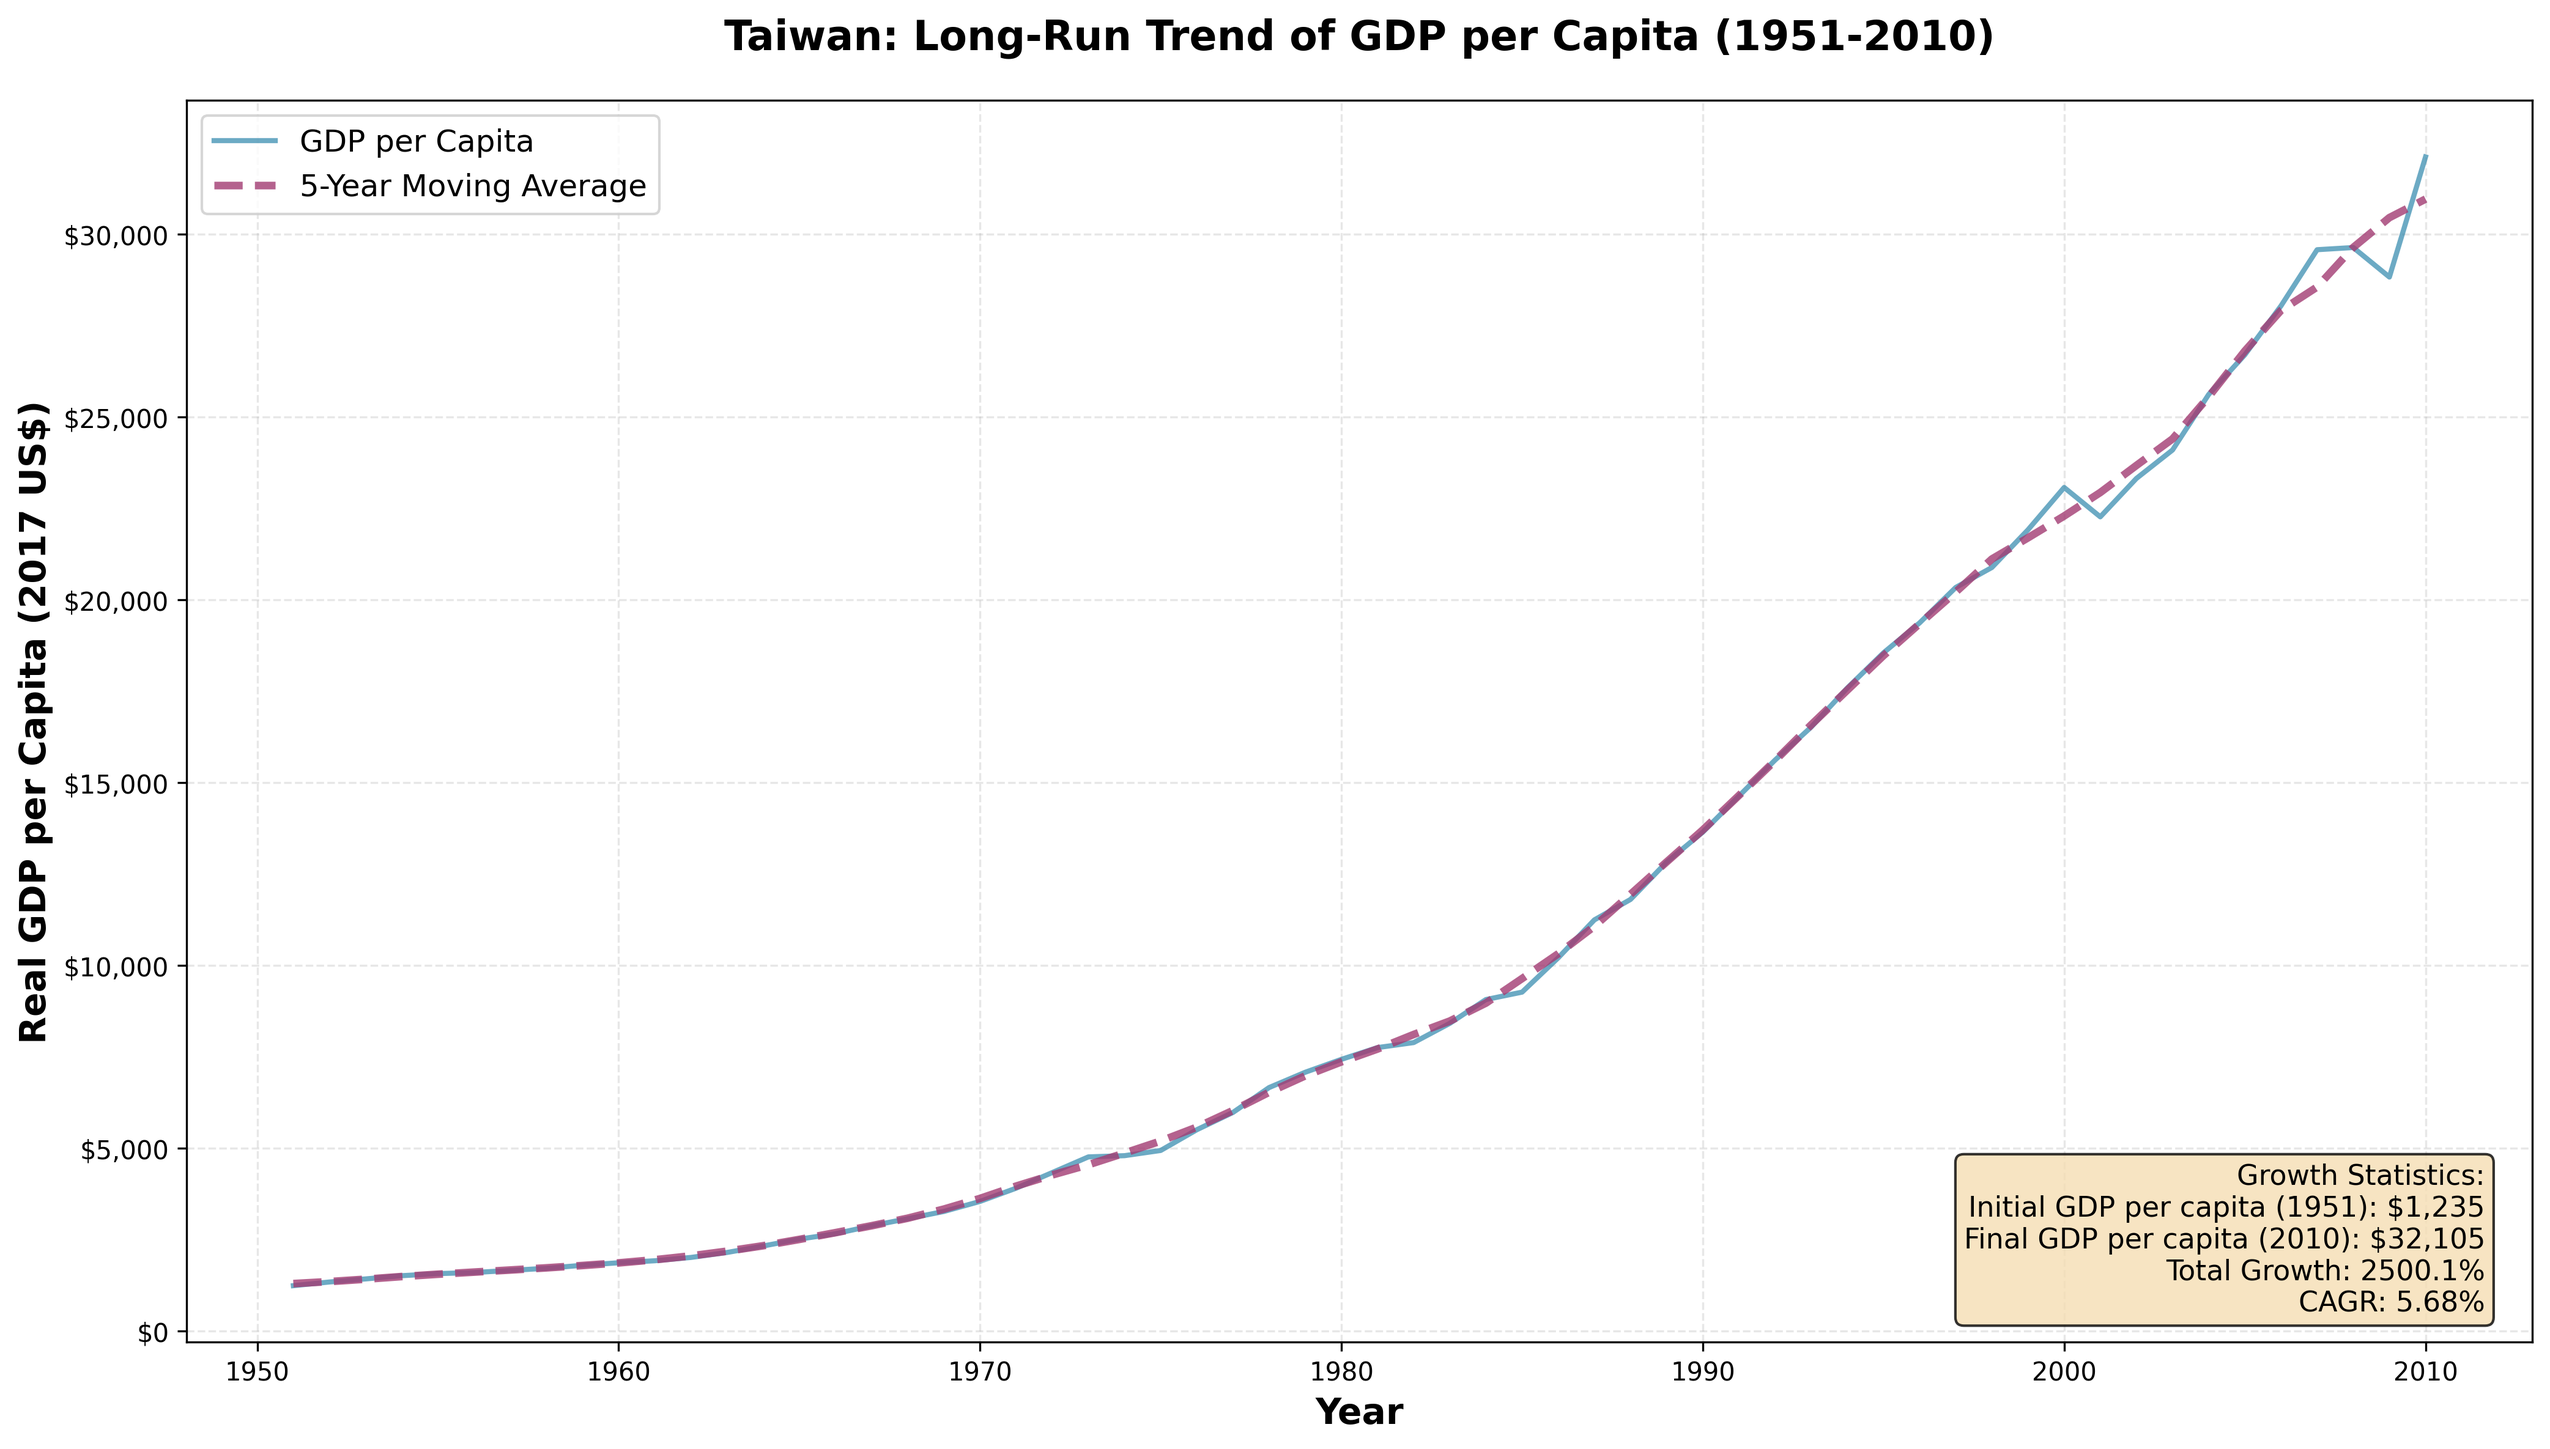
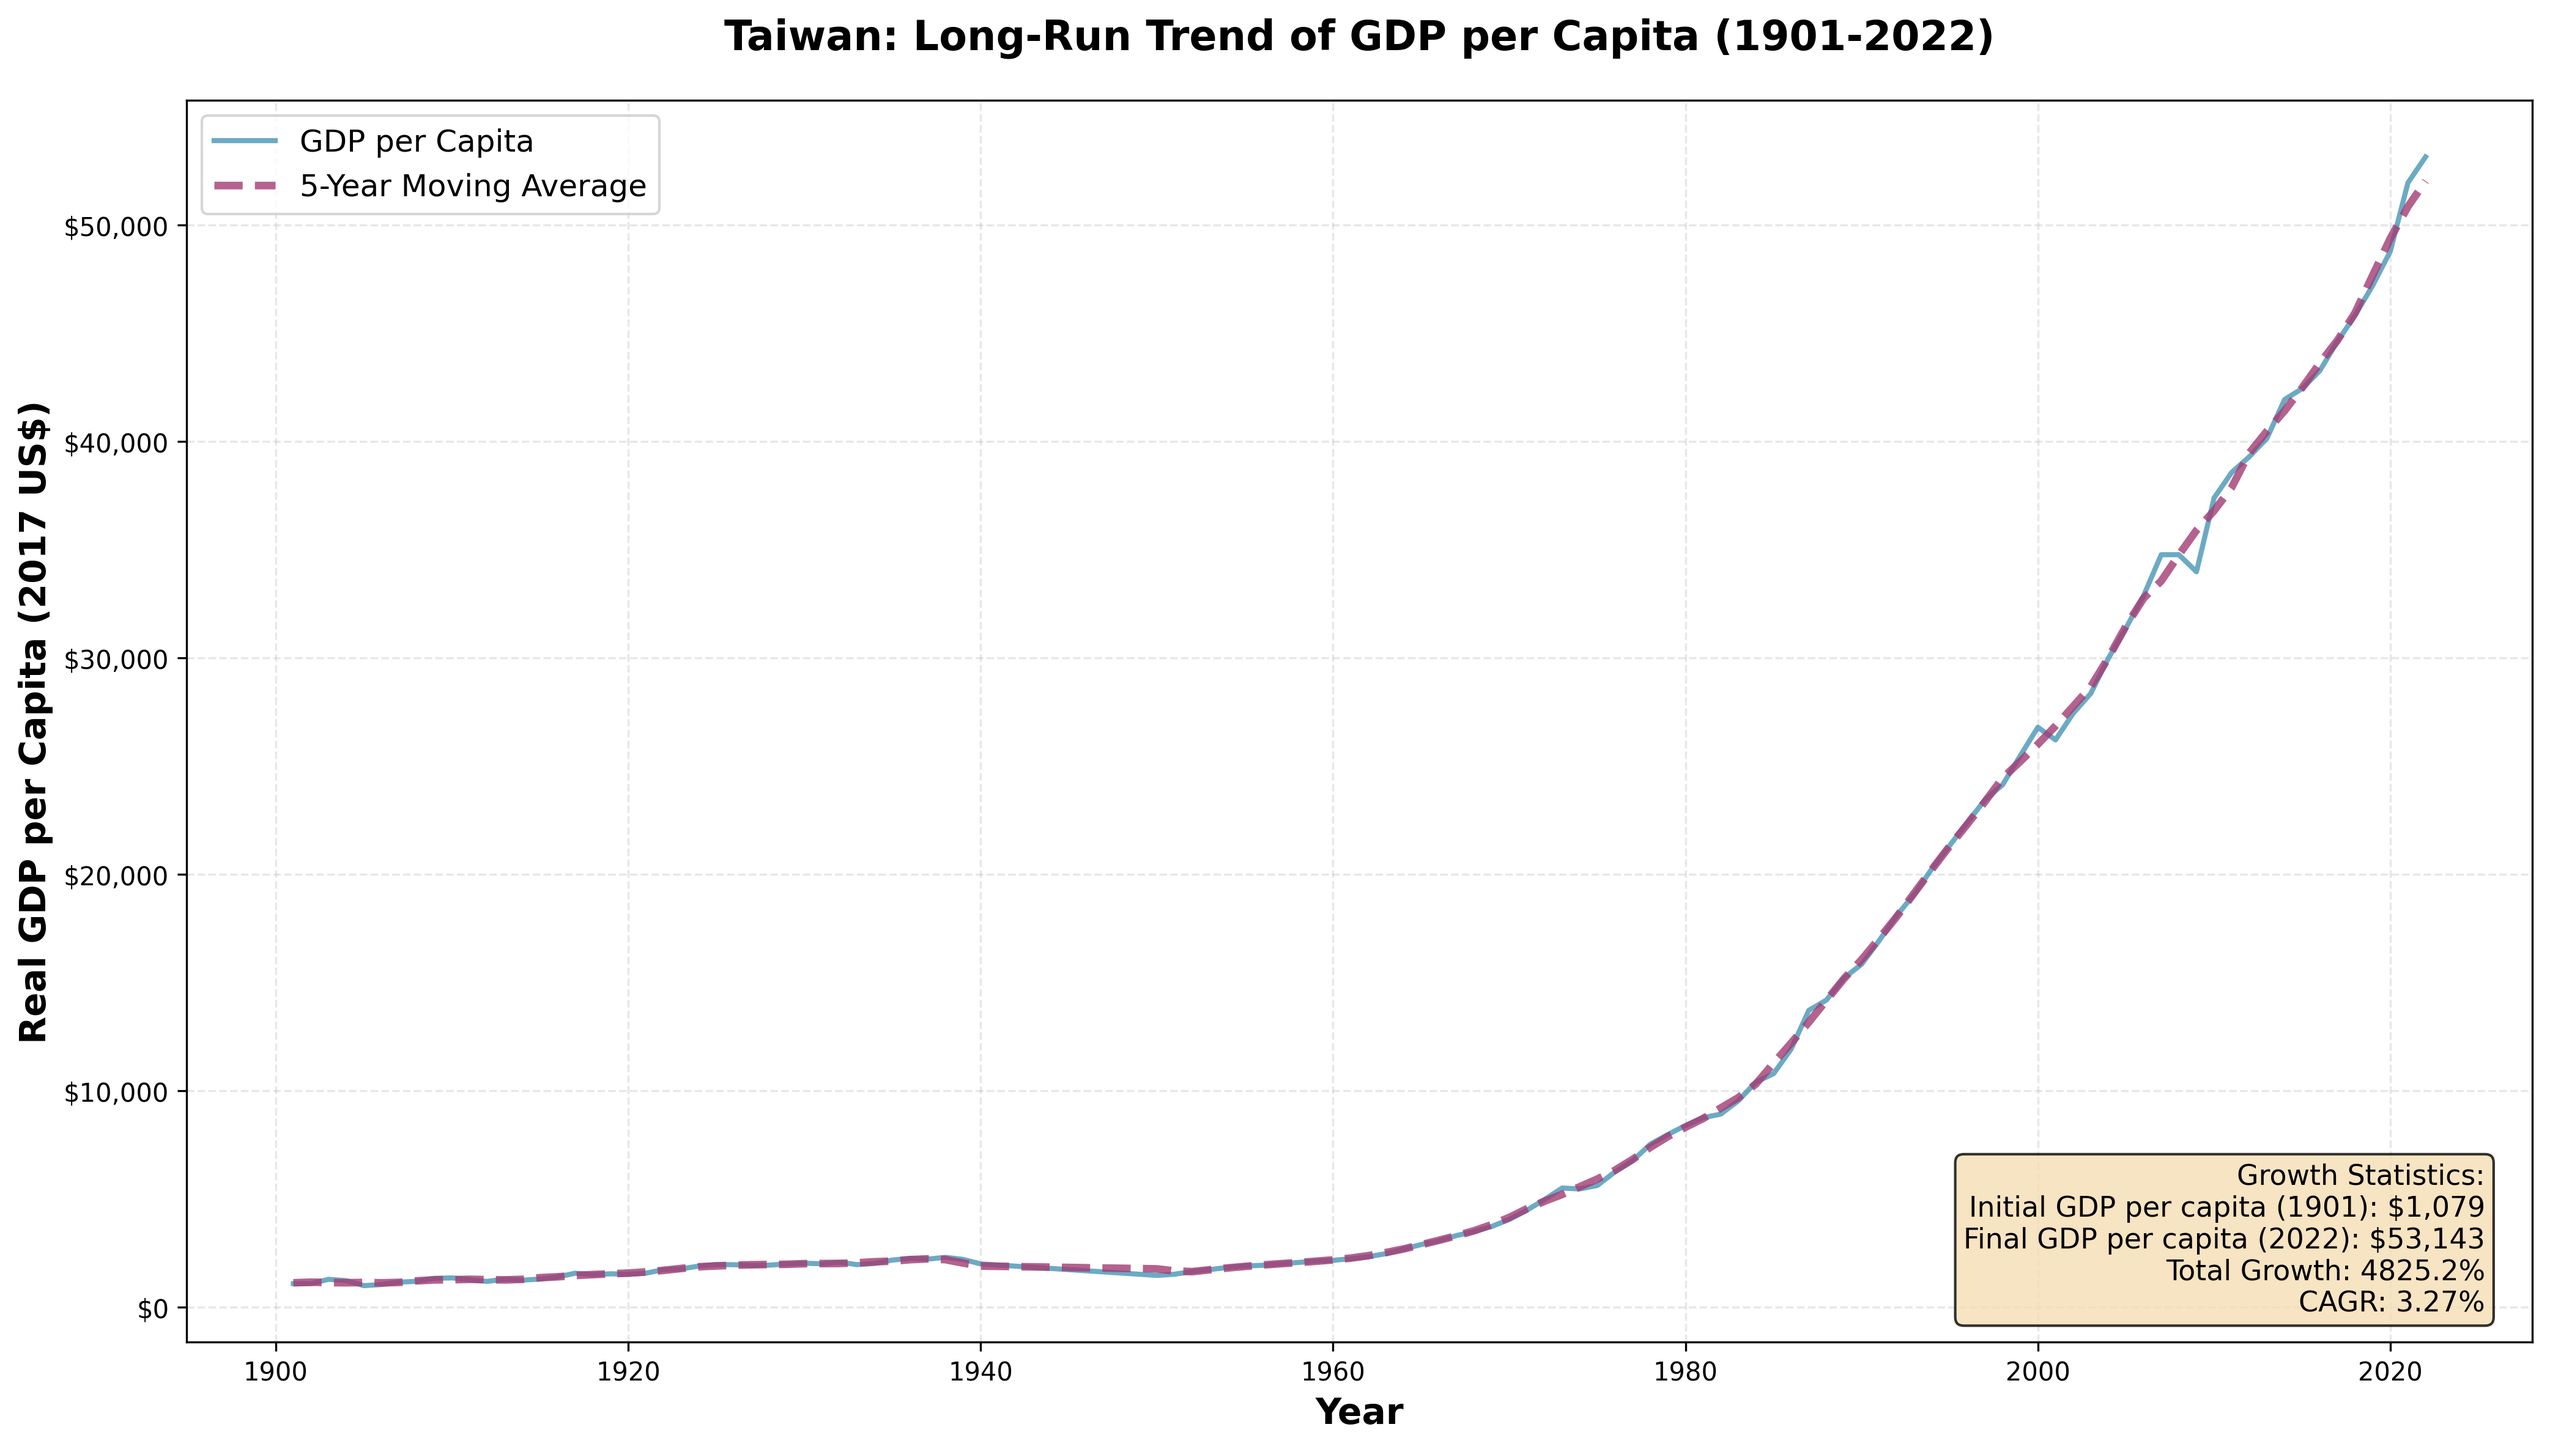
Changed Data Set

diff --git a/Question 1.py b/Question 1.py
@@ -2,109 +2,77 @@ import pandas as pd
 import matplotlib.pyplot as plt
 import numpy as np
 from scipy.ndimage import uniform_filter1d
-
-# Read the CSV file
-df = pd.read_csv('Taiwan GDP per capita.csv')
-
-# Convert observation_date to datetime
-df['observation_date'] = pd.to_datetime(df['observation_date'])
-
-# Extract year for x-axis
-df['year'] = df['observation_date'].dt.year
-
-# Create figure and axis
-fig, ax = plt.subplots(figsize=(14, 8))
-
-# Plot the actual GDP per capita
-ax.plot(df['year'], df['RGDPCHTWA625NUPN'],
-        linewidth=2, color='#2E86AB', alpha=0.7, label='GDP per Capita')
-
-# Add a moving average trend line to show long-term trend (5-year moving average)
-window_size = 5
-moving_avg = uniform_filter1d(df['RGDPCHTWA625NUPN'], size=window_size, mode='nearest')
-ax.plot(df['year'], moving_avg,
-        linewidth=3, color='#A23B72', linestyle='--',
-        label=f'{window_size}-Year Moving Average', alpha=0.8)
-
-# Formatting
-ax.set_xlabel('Year', fontsize=14, fontweight='bold')
-ax.set_ylabel('Real GDP per Capita (2017 US$)', fontsize=14, fontweight='bold')
-ax.set_title('Taiwan: Long-Run Trend of GDP per Capita (1951-2010)',
-             fontsize=16, fontweight='bold', pad=20)
-
-# Add grid for better readability
-ax.grid(True, alpha=0.3, linestyle='--')
-
-# Format y-axis to show values in thousands with comma separator
-ax.yaxis.set_major_formatter(plt.FuncFormatter(lambda x, p: f'${x:,.0f}'))
-
-# Add legend
-ax.legend(fontsize=12, loc='upper left')
-
-# Add some key statistics as text
-initial_gdp = df['RGDPCHTWA625NUPN'].iloc[0]
-final_gdp = df['RGDPCHTWA625NUPN'].iloc[-1]
-total_growth = ((final_gdp - initial_gdp) / initial_gdp) * 100
-years = df['year'].iloc[-1] - df['year'].iloc[0]
-cagr = ((final_gdp / initial_gdp) ** (1/years) - 1) * 100
-
-# Add text box with key statistics (positioned in bottom right)
-textstr = f'Growth Statistics:\n'
-textstr += f'Initial GDP per capita ({df["year"].iloc[0]}): ${initial_gdp:,.0f}\n'
-textstr += f'Final GDP per capita ({df["year"].iloc[-1]}): ${final_gdp:,.0f}\n'
-textstr += f'Total Growth: {total_growth:.1f}%\n'
-textstr += f'CAGR: {cagr:.2f}%'
-
-props = dict(boxstyle='round', facecolor='wheat', alpha=0.8)
-ax.text(0.98, 0.02, textstr, transform=ax.transAxes, fontsize=11,
-        verticalalignment='bottom', horizontalalignment='right', bbox=props)
-
-# Tight layout
-plt.tight_layout()
-
-# Save the figure
-plt.savefig('Taiwan_GDP_per_capita_trend.png', dpi=300, bbox_inches='tight')
-
-# Show the plot
-plt.show()
-
-# --- Log-scale version ---
-fig2, ax2 = plt.subplots(figsize=(14, 8))
-
-ax2.plot(df['year'], df['RGDPCHTWA625NUPN'],
-         linewidth=2, color='#2E86AB', alpha=0.7, label='GDP per Capita')
-ax2.plot(df['year'], moving_avg,
-         linewidth=3, color='#A23B72', linestyle='--',
-         label=f'{window_size}-Year Moving Average', alpha=0.8)
-
-ax2.set_yscale('log')
-
-# Set explicit y-axis ticks for readability
 from matplotlib.ticker import FixedLocator
-tick_values = [1000, 2000, 5000, 10000, 20000, 50000]
-ax2.yaxis.set_major_locator(FixedLocator(tick_values))
-ax2.yaxis.set_minor_locator(FixedLocator([]))
-ax2.set_ylim(800, 50000)
 
-ax2.set_xlabel('Year', fontsize=14, fontweight='bold')
-ax2.set_ylabel('Real GDP per Capita (2017 US$, log scale)', fontsize=14, fontweight='bold')
-ax2.set_title('Taiwan: Long-Run Trend of GDP per Capita — Log Scale (1951-2010)',
-              fontsize=16, fontweight='bold', pad=20)
+# Read the CSV file and filter for Taiwan from 1900 onwards
+df_full = pd.read_csv('GDP per capita Database.csv')
+df_full = df_full[(df_full['Entity'] == 'Taiwan') & (df_full['Year'] >= 1900)].reset_index(drop=True)
 
-ax2.grid(True, alpha=0.3, linestyle='--', which='both')
-ax2.yaxis.set_major_formatter(plt.FuncFormatter(lambda x, p: f'${x:,.0f}'))
-ax2.legend(fontsize=12, loc='upper left')
+# Also create a 1950+ subset
+df_1950 = df_full[df_full['Year'] >= 1950].reset_index(drop=True)
 
-ax2.text(0.98, 0.02, textstr, transform=ax2.transAxes, fontsize=11,
-         verticalalignment='bottom', horizontalalignment='right', bbox=props)
+window_size = 5
+props = dict(boxstyle='round', facecolor='wheat', alpha=0.8)
 
-plt.tight_layout()
-plt.savefig('Taiwan_GDP_per_capita_trend_log.png', dpi=300, bbox_inches='tight')
-plt.show()
 
-print("Graph saved as 'Taiwan_GDP_per_capita_trend.png'")
-print("Log-scale graph saved as 'Taiwan_GDP_per_capita_trend_log.png'")
-print(f"\nKey Insights:")
-print(f"- Taiwan's GDP per capita grew from ${initial_gdp:,.0f} in {df['year'].iloc[0]} to ${final_gdp:,.0f} in {df['year'].iloc[-1]}")
-print(f"- This represents a {total_growth:.1f}% total growth over {years} years")
-print(f"- Compound Annual Growth Rate (CAGR): {cagr:.2f}%")
+def plot_log_graph(df, filename, title_suffix):
+    """Plot a log-scale GDP per capita graph for the given dataframe."""
+    moving_avg = uniform_filter1d(df['GDP per capita'].values, size=window_size, mode='nearest')
+
+    fig, ax = plt.subplots(figsize=(14, 8))
+
+    ax.plot(df['Year'], df['GDP per capita'],
+            linewidth=2, color='#2E86AB', alpha=0.7, label='GDP per Capita')
+    ax.plot(df['Year'], moving_avg,
+            linewidth=3, color='#A23B72', linestyle='--',
+            label=f'{window_size}-Year Moving Average', alpha=0.8)
+
+    ax.set_yscale('log')
+
+    # Set explicit y-axis ticks for readability
+    tick_values = [1000, 2000, 5000, 10000, 20000, 50000]
+    ax.yaxis.set_major_locator(FixedLocator(tick_values))
+    ax.yaxis.set_minor_locator(FixedLocator([]))
+    ax.set_ylim(800, 80000)
+
+    ax.set_xlabel('Year', fontsize=14, fontweight='bold')
+    ax.set_ylabel('Real GDP per Capita (2017 US$, log scale)', fontsize=14, fontweight='bold')
+    ax.set_title(f'Taiwan: Long-Run Trend of GDP per Capita — Log Scale ({title_suffix})',
+                 fontsize=16, fontweight='bold', pad=20)
+
+    ax.grid(True, alpha=0.3, linestyle='--', which='both')
+    ax.yaxis.set_major_formatter(plt.FuncFormatter(lambda x, p: f'${x:,.0f}'))
+    ax.legend(fontsize=12, loc='upper left')
+
+    # Growth statistics
+    initial_gdp = df['GDP per capita'].iloc[0]
+    final_gdp = df['GDP per capita'].iloc[-1]
+    total_growth = ((final_gdp - initial_gdp) / initial_gdp) * 100
+    years = df['Year'].iloc[-1] - df['Year'].iloc[0]
+    cagr = ((final_gdp / initial_gdp) ** (1/years) - 1) * 100
+
+    textstr = f'Growth Statistics:\n'
+    textstr += f'Initial GDP per capita ({df["Year"].iloc[0]}): ${initial_gdp:,.0f}\n'
+    textstr += f'Final GDP per capita ({df["Year"].iloc[-1]}): ${final_gdp:,.0f}\n'
+    textstr += f'Total Growth: {total_growth:.1f}%\n'
+    textstr += f'CAGR: {cagr:.2f}%'
+
+    ax.text(0.98, 0.02, textstr, transform=ax.transAxes, fontsize=11,
+            verticalalignment='bottom', horizontalalignment='right', bbox=props)
+
+    plt.tight_layout()
+    plt.savefig(filename, dpi=300, bbox_inches='tight')
+    plt.show()
+
+    print(f"Graph saved as '{filename}'")
+    print(f"- GDP per capita grew from ${initial_gdp:,.0f} ({df['Year'].iloc[0]}) to ${final_gdp:,.0f} ({df['Year'].iloc[-1]})")
+    print(f"- Total Growth: {total_growth:.1f}% | CAGR: {cagr:.2f}%\n")
+
+
+# --- Log-scale: 1900 onwards ---
+plot_log_graph(df_full, 'Taiwan_GDP_per_capita_trend_log.png',
+               f'{df_full["Year"].iloc[0]}-{df_full["Year"].iloc[-1]}')
+
+# --- Log-scale: 1950 onwards ---
+plot_log_graph(df_1950, 'Taiwan_GDP_per_capita_trend_log_1950.png',
+               f'{df_1950["Year"].iloc[0]}-{df_1950["Year"].iloc[-1]}')
